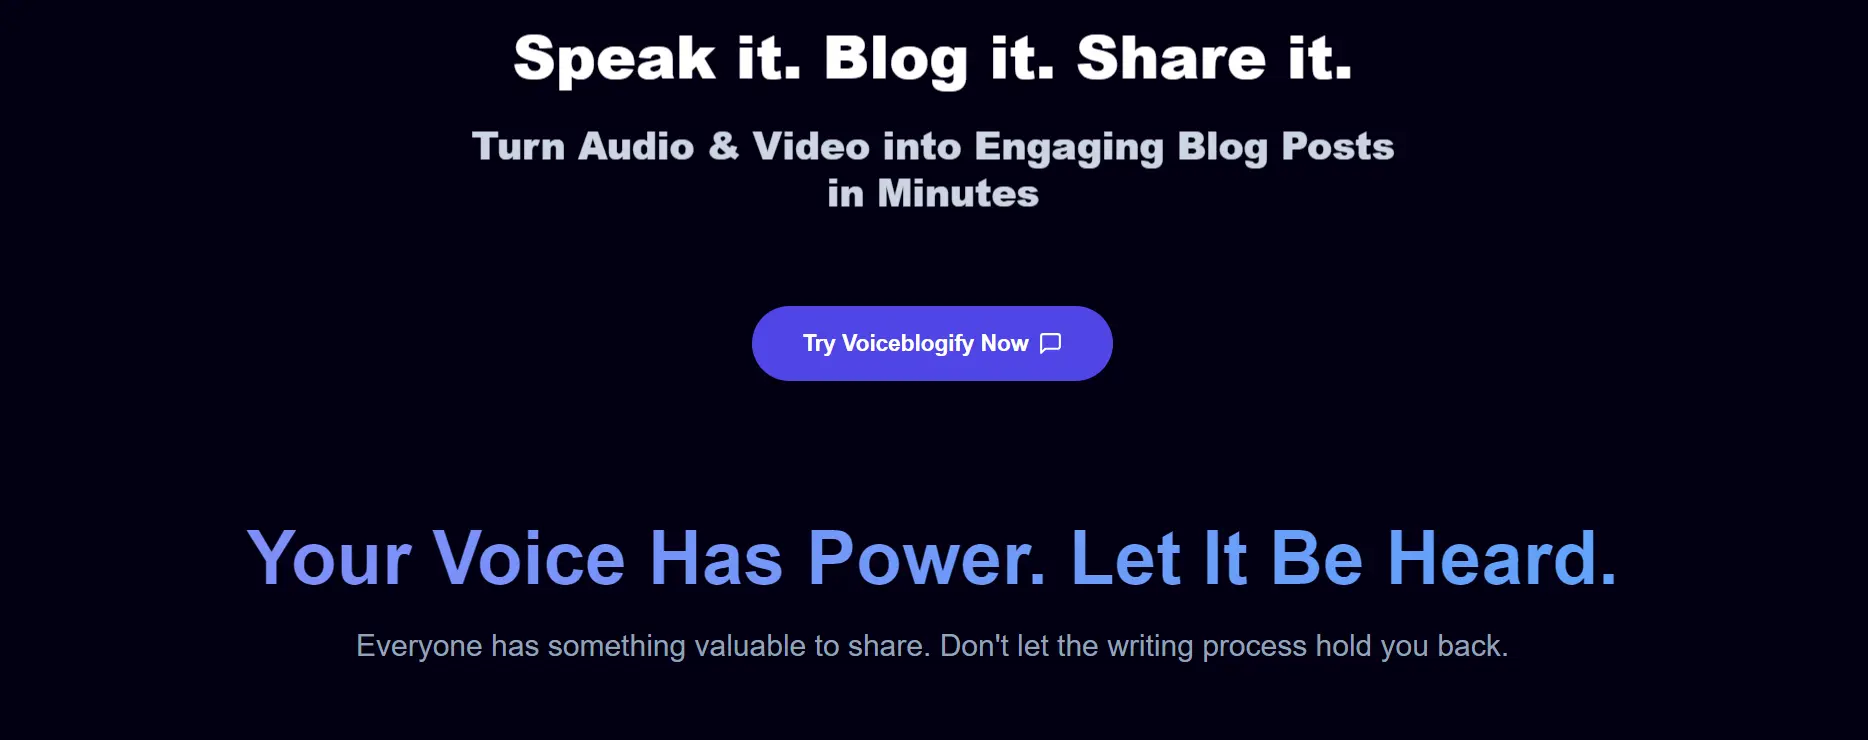
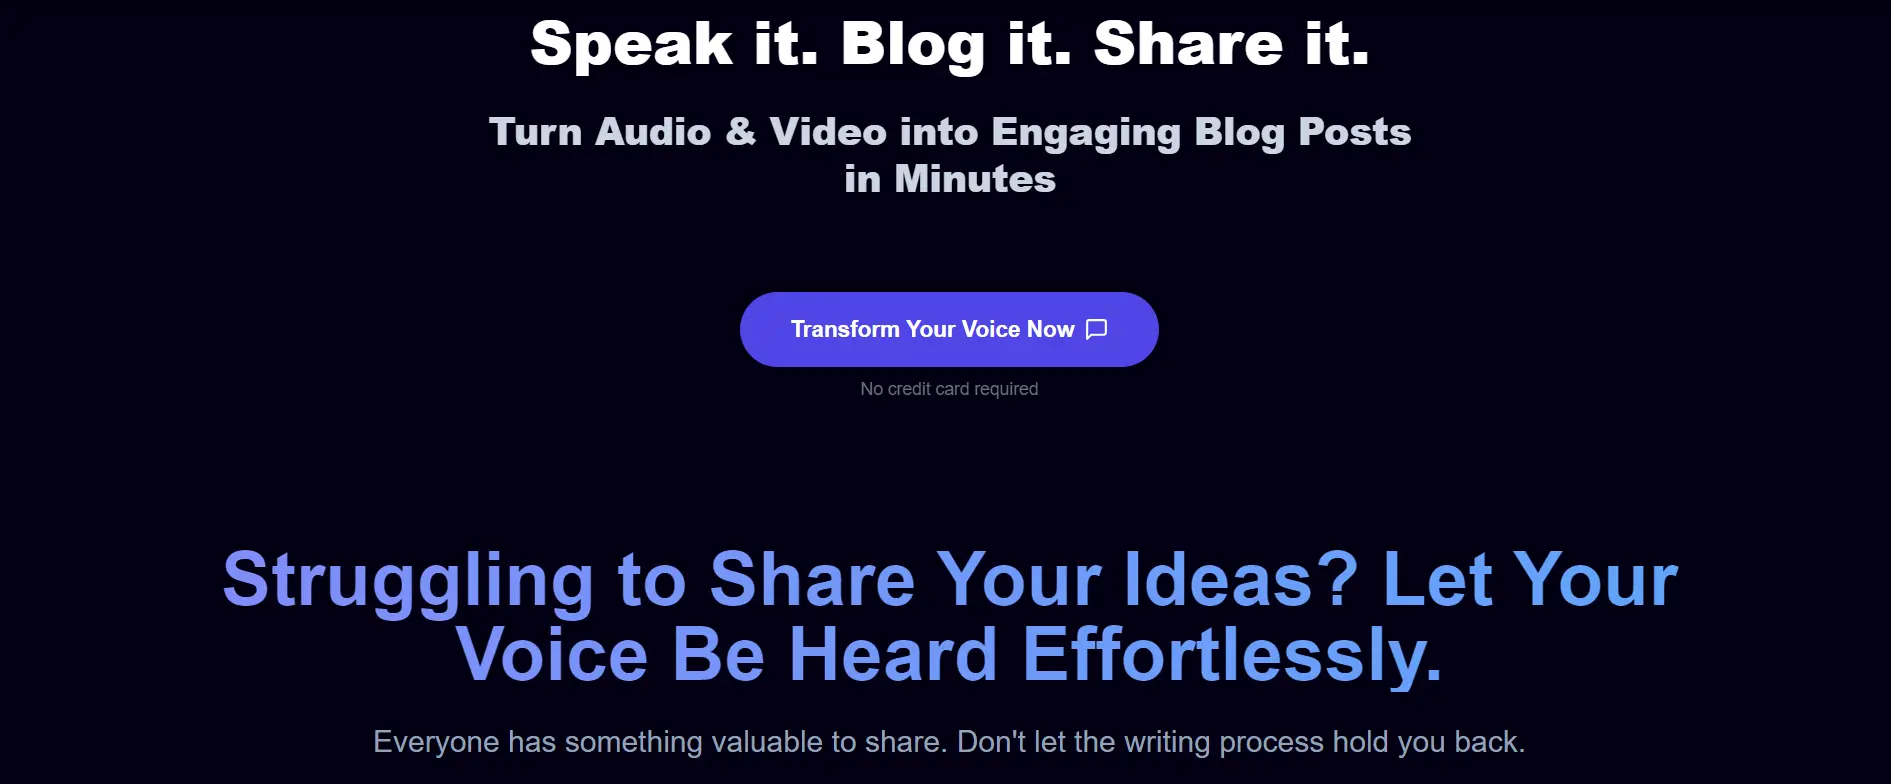
completd and pushed to the production

diff --git a/saas/src/componets/util/PasSction.jsx b/saas/src/componets/util/PasSction.jsx
@@ -80,12 +80,12 @@ const PASSection = () => {
         {
             icon: Clock,
             title: "Time is Precious",
-            description: "Whether you're a busy student, creator, or professional - writing takes too much time."
+            description: "Whether you're a busy student, creator, or professional, writing takes too much time."
         },
         {
             icon: Globe,
             title: "Language Barriers",
-            description: "Express yourself freely in your native language, let AI perfect the written form."
+            description: "Express yourself freely in your native language; let AI perfect the written form"
         },
         {
             icon: Video,
@@ -105,7 +105,7 @@ const PASSection = () => {
                 {/* Hero Section */}
                 <div className="mb-16 text-center">
                     <h2 className="text-4xl md:text-6xl font-bold leading-tight mb-6 text-transparent bg-clip-text bg-gradient-to-r from-indigo-400 to-blue-400">
-                        Your Voice Has Power. Let It Be Heard.
+                        Struggling to Share Your Ideas? Let Your Voice Be Heard Effortlessly.
                     </h2>
                     <p className="text-xl md:text-2xl text-slate-400 mb-12">
                         Everyone has something valuable to share. Don't let the writing process hold you back.
@@ -160,7 +160,7 @@ const PASSection = () => {
                                 <span className="text-yellow-400">Students:</span> Your lecture notes could help thousands of other learners.
                             </p>
                             <p className="text-xl text-slate-200">
-                                <span className="text-yellow-400">Creators:</span> Your voice content is missing its reading audience.
+                                <span className="text-yellow-400">Creators:</span> Your voice content is missing a reading audience
                             </p>
                             <p className="text-xl text-slate-200">
                                 <span className="text-yellow-400">Educators:</span> Your knowledge is limited to those who can attend.
@@ -168,13 +168,13 @@ const PASSection = () => {
                         </div>
                         <div className="space-y-4">
                             <p className="text-xl text-slate-200">
-                                <span className="text-yellow-400">Professionals:</span> Your expertise stays trapped in meetings.
+                                <span className="text-yellow-400">Professionals:</span> Your expertise remains trapped in meetings.
                             </p>
                             <p className="text-xl text-slate-200">
                                 <span className="text-yellow-400">YouTubers:</span> Your videos could be powerful articles.
                             </p>
                             <p className="text-xl text-slate-200">
-                                <span className="text-yellow-400">Personal Users:</span> Your stories deserve to be shared.
+                                <span className="text-yellow-400">Personal Users:</span> Your stories deserve sharing.
                             </p>
                         </div>
                     </div>

diff --git a/saas/src/componets/LandingPage.jsx b/saas/src/componets/LandingPage.jsx
@@ -44,7 +44,7 @@ export default function LandingPage() {
 
                         </motion.h3>
                         <motion.div
-                            className="flex justify-center pt-12"
+                            className="flex flex-col justify-center items-center pt-12"
                             initial={{ opacity: 0 }}
                             animate={{ opacity: 1 }}
                             transition={{ duration: 1, delay: 0.6 }}
@@ -53,9 +53,10 @@ export default function LandingPage() {
                                 to="/main"
                                 className="bg-indigo-600 hover:bg-indigo-700 transition-all px-10 py-4 rounded-full text-white text-lg font-semibold inline-flex items-center gap-2"
                             >
-                                Try Voiceblogify Now
+                                Transform Your Voice Now
                                 <MessageSquare className="w-5 h-5" />
                             </Link>
+                            <p className="text-sm text-gray-500 mt-2">No credit card required</p>
                         </motion.div>
 
 
@@ -285,15 +286,12 @@ export default function LandingPage() {
 
                 </motion.section >
 
-
-
-                <FAQComponent />
                 <motion.section
                     className=" py-16 px-6 "
                     style={{ backgroundColor: "#020012" }}
                     initial={{ opacity: 0 }}
                     animate={{ opacity: 1 }}
-                    transition={{ duration: 1, delay: 3.5 }}
+                    transition={{ duration: 1, delay: 1.5 }}
                 >
                     <div className="container mx-auto text-center">
                         <h3 className="text-3xl font-bold text-white mb-6">Ready to Transform Your Content?</h3>
@@ -310,7 +308,11 @@ export default function LandingPage() {
                     </div>
                 </motion.section>
 
-                <FeedbackForm />
+                <FAQComponent />
+
+
+
+                {/* <FeedbackForm /> */}
 
 
 

diff --git a/saas/src/componets/AudioTest.jsx b/saas/src/componets/AudioTest.jsx
@@ -393,10 +393,10 @@ export default function MyAudioRecordingComponent() {
                                 <option value="technical">Technical Tutorial/Guide</option>
                                 <option value="personal">Personal Story/Experience</option>
                                 <option value="industry">Industry Analysis/Trends</option>
-                                <option value="how-to">How-To/Instructional</option>
+                                <option value="howTo">How-To/Instructional</option>
                                 <option value="opinion">Opinion/Editorial</option>
                                 <option value="product">Product Review</option>
-                                <option value="case-study">Case Study</option>
+                                <option value="caseStudy">Case Study</option>
                                 <option value="news">News Analysis</option>
                                 <option value="research">Research Summary</option>
                                 <option value="lifestyle">Lifestyle/Personal Development</option>
@@ -417,7 +417,7 @@ export default function MyAudioRecordingComponent() {
                                 <option value="casual">Casual & Friendly</option>
                                 <option value="professional">Professional but Warm</option>
                                 <option value="expert">Expert & Engaging</option>
-                                <option value="story-driven">Story-driven</option>
+                                <option value="storyDriven">Story-driven</option>
                                 <option value="analytical">Analytical but Accessible</option>
                             </select>
                         </div>

diff --git a/saas/src/componets/AudioRecorder.jsx b/saas/src/componets/AudioRecorder.jsx
@@ -247,10 +247,10 @@ const AudioDropzone = ({ onFileUploaded }) => {
                                 <option value="technical">Technical Tutorial/Guide</option>
                                 <option value="personal">Personal Story/Experience</option>
                                 <option value="industry">Industry Analysis/Trends</option>
-                                <option value="how-to">How-To/Instructional</option>
+                                <option value="howTo">How-To/Instructional</option>
                                 <option value="opinion">Opinion/Editorial</option>
                                 <option value="product">Product Review</option>
-                                <option value="case-study">Case Study</option>
+                                <option value="caseStudy">Case Study</option>
                                 <option value="news">News Analysis</option>
                                 <option value="research">Research Summary</option>
                                 <option value="lifestyle">Lifestyle/Personal Development</option>
@@ -268,7 +268,7 @@ const AudioDropzone = ({ onFileUploaded }) => {
                                 <option value="casual">Casual & Friendly</option>
                                 <option value="professional">Professional but Warm</option>
                                 <option value="expert">Expert & Engaging</option>
-                                <option value="story-driven">Story-driven</option>
+                                <option value="storyDriven">Story-driven</option>
                                 <option value="analytical">Analytical but Accessible</option>
                             </select>
                         </div>

diff --git a/saas/src/componets/HowVoiceBlogifyHelpU.jsx b/saas/src/componets/HowVoiceBlogifyHelpU.jsx
@@ -22,7 +22,7 @@ const HowVoiceBlogifyHelps = () => {
         },
         {
             title: "Personalized AI Drafts",
-            description: "Our AI captures your unique voice, making sure your personality shines in every article. Authenticity is key!",
+            description: "Our AI captures your unique voice, making sure your personality shines in every article. Realness is key!",
             icon: <FaRegHandshake className="text-4xl text-purple-500" />,
         },
     ];
@@ -32,7 +32,7 @@ const HowVoiceBlogifyHelps = () => {
             <div className="max-w-4xl mx-auto px-4"> {/* Centering with margins */}
                 <h2 className="text-3xl font-bold text-center mb-4 text-gray-100">Why Use VoiceBlogify?</h2>
                 <p className="text-md text-center text-slate-300 mb-8">
-                    VoiceBlogify revolutionizes the way you create content. With our intuitive voice-to-text technology, you can easily transform your ideas into blog posts without the hassle of typing. Whether you're a busy professional or a passionate blogger, our platform helps you overcome writer's block and boosts your productivity.
+                    VoiceBlogify changes how you make content. With our intuitive voice-to-text technology, you can easily transform your ideas into blog posts without the hassle of typing. Whether you're a busy professional or a passionate blogger, our platform helps you overcome writer's block and boosts your productivity.
                 </p>
             </div>
             <div className="flex flex-col items-center md:flex-row md:justify-center ">

diff --git a/saas/src/componets/HowItWork.jsx b/saas/src/componets/HowItWork.jsx
@@ -6,11 +6,11 @@ const VisualPath = () => {
     const steps = [
         {
             title: "Capture Your Ideas",
-            description: "Effortlessly record your voice or upload videos to transform spontaneous thoughts into structured blog posts. Perfect for creators on-the-go, whether you’re walking, driving, or brainstorming.",
+            description: "Record your voice. Upload videos. Turn thoughts into blog posts. Perfect for creators on-the-go, whether you’re walking, driving, or brainstorming.",
             icon: <FaMicrophone className="text-4xl text-blue-500" />,
         },
         {
-            title: "Effortless File Upload",
+            title: "Easily File Upload",
             description: "Easily upload audio files or videos in various formats. VoiceBlogify ensures a smooth transition from raw ideas to polished content.",
             icon: <FaUpload className="text-4xl text-green-500" />,
         },
@@ -26,7 +26,7 @@ const VisualPath = () => {
         },
         {
             title: "Instant Publishing & Sharing",
-            description: "Export your articles in rich text, plain HTML, or Markdown. Share directly to LinkedIn, Medium, or Blogger with one click to amplify your reach effortlessly.",
+            description: "Export your articles in rich text, plain HTML, or Markdown. Share directly to LinkedIn, Medium, or Blogger with one click to amplify your reach easily.",
             icon: <FaShareAlt className="text-4xl text-red-500" />,
         },
     ];

diff --git a/saas/src/componets/LinkedinRichEditorText.jsx b/saas/src/componets/LinkedinRichEditorText.jsx
@@ -179,7 +179,7 @@ export function LinkedinRET() {
         handleCloseModal();
     };
     const filteredPosts = posts.filter((post) =>
-        post.title.toLowerCase().includes(searchQuery.toLowerCase())
+        post && post.title && post.title.toLowerCase().includes(searchQuery.toLowerCase())
     );
 
     const handleDrop = (acceptedFiles) => {
@@ -301,7 +301,7 @@ export function LinkedinRET() {
                                     key={post.id}
                                     className="flex justify-between items-center bg-white p-4 rounded-lg shadow-lg"
                                 >
-                                    <h2 className="text-xl font-semibold text-gray">{post.title}</h2>
+                                    <h2 className="text-xl font-semibold text-gray">{post && post.title}</h2>
                                     <div className="flex space-x-4">
                                         <button
                                             onClick={() => handleOpenModal(post)}

diff --git a/saas/src/App.jsx b/saas/src/App.jsx
@@ -2,7 +2,7 @@ import './App.css';
 import { Route, Routes, Navigate } from 'react-router-dom';
 import { lazy, Suspense } from 'react';
 import { useAuth } from './userContext/AuthContext';
-
+import { useState } from 'react';
 
 import Layout from './componets/Layout';
 import Login from './componets/Login';
@@ -26,6 +26,9 @@ const Dashboard = lazy(() => import('./componets/Dashboard'));
 
 function App() {
   const { isAuthenticated, isGoogle, isAvialbleCreatePost, isVerified } = useAuth();
+  const [showNotification, setShowNotification] = useState(false);
+
+
 
   return (
     <Routes>
@@ -72,7 +75,8 @@ function App() {
                     <AudioPage />
                   ) : (
                     <>
-                      {NotifyFalse("You need to upgrade/buy plan to create posts!")}
+                      NotifyFalse("You need to upgrade/buy plan to create posts!")
+
                       <Navigate to="/pricing" />
                     </>
                   )

diff --git a/saas/src/componets/dashBoard/Medium.jsx b/saas/src/componets/dashBoard/Medium.jsx
@@ -30,7 +30,7 @@ export function Medium() {
 
 
     const filteredPosts = posts.filter((post) =>
-        post.title.toLowerCase().includes(searchQuery.toLowerCase())
+        post && post.title && post.title.toLowerCase().includes(searchQuery.toLowerCase())
     );
 
     const totalPages = Math.ceil(filteredPosts.length / postsPerPage);
@@ -130,7 +130,7 @@ export function Medium() {
                             >
                                 <h2 className="text-xl font-semibold text-gray-800">
 
-                                    {post.title.length > 30
+                                    {post && post.title && post.title.length > 30
                                         ? `${post.title.substring(0, 60)}...`
                                         : post.title}
                                 </h2>

diff --git a/saas/src/componets/dashBoard/Blogger.jsx b/saas/src/componets/dashBoard/Blogger.jsx
@@ -95,7 +95,7 @@ export function Blogger() {
                 {filteredPosts.length ? filteredPosts.map(post => (
                     <div key={post.id} className="flex justify-between items-center bg-white p-4 rounded-lg shadow-lg hover:shadow-xl transition duration-300">
                         <h2 className="text-xl font-semibold text-gray-800">
-                            {post.title.length > 60
+                            {post && post.title && post.title.length > 60
                                 ? `${post.title.substring(0, 60)}...`  // Truncate after 30 characters
                                 : post.title}
                         </h2>

diff --git a/saas/src/componets/dashBoard/UserPost.jsx b/saas/src/componets/dashBoard/UserPost.jsx
@@ -96,7 +96,7 @@ export const UserPosts = () => {
                         >
                             <div className="flex-1">
                                 <h3 className="text-xl font-semibold text-gray-800 mb-2">
-                                    {post.title.substring(0, 50) + '...'}
+                                    {post && post.title && post.title.substring(0, 50) + '...'}
                                 </h3>
                                 <p className="text-sm text-gray-500 mb-4">
                                     Created on: {new Date(post.dateOfCreation).toLocaleDateString()}

diff --git a/saas/src/componets/util/Faq.jsx b/saas/src/componets/util/Faq.jsx
@@ -8,7 +8,7 @@ const FAQs = [
     },
     {
         question: "What audio and video formats are supported?",
-        answer: "We support various formats: Audio: .mp3, .wav, .ogg, .m4a, .aiff; Video: .mp4, .avi, .m4v, .ogv, .webm."
+        answer: "We support various formats: Audio: .mp3, .wav,.mpeg, .ogg, .m4a; Video: .mp4,  .m4v, .ogg, .webm."
     },
     {
         question: "Can I customize content for different platforms?",
